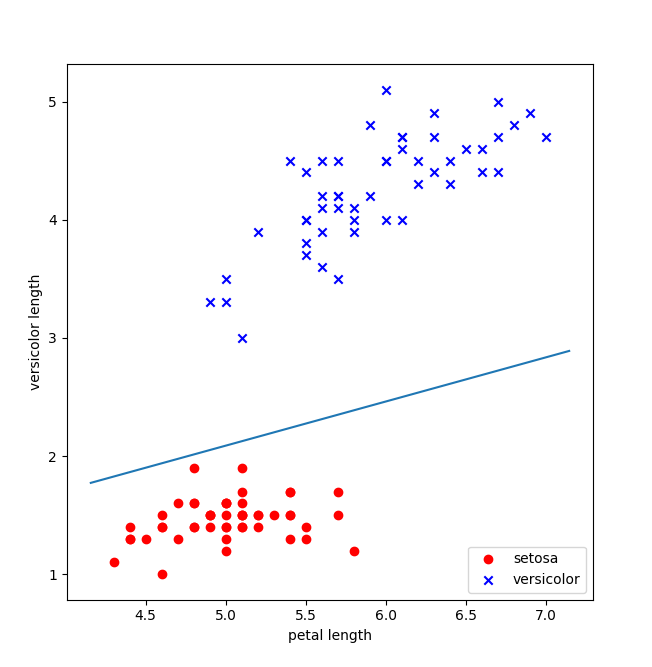
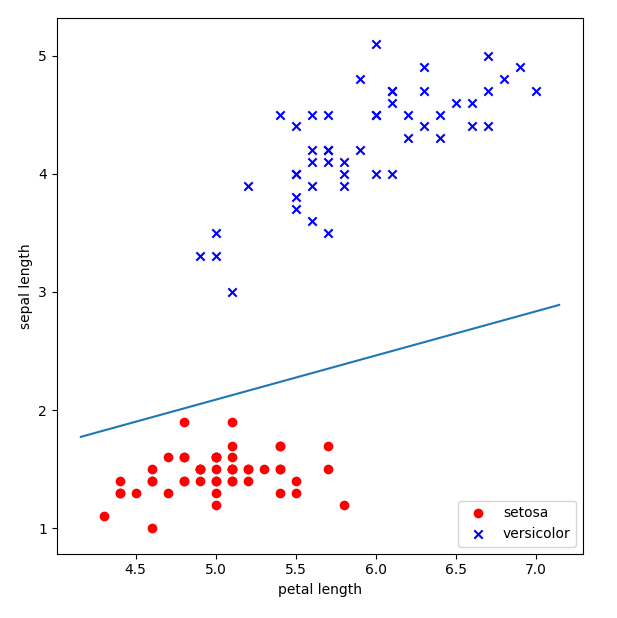
fixing scatter img

diff --git a/perceptron.py b/perceptron.py
@@ -55,6 +55,7 @@ class Perceptron:
         self.w[0] += w_delta
         return w_delta
 
+
     def plot(self):
         """Ploting scatterplot of data"""
         plt.scatter(self.X[:50, 0], self.X[:50, 1], color = 'red', marker = 'o', 
@@ -62,7 +63,7 @@ class Perceptron:
         plt.scatter(self.X[50:100, 0], self.X[50:100, 1], color = 'blue', marker = 'x', 
             label = 'versicolor')
         plt.xlabel('petal length')
-        plt.ylabel('versicolor length')
+        plt.ylabel('sepal length')
         plt.legend(loc='lower right')
 
         """
